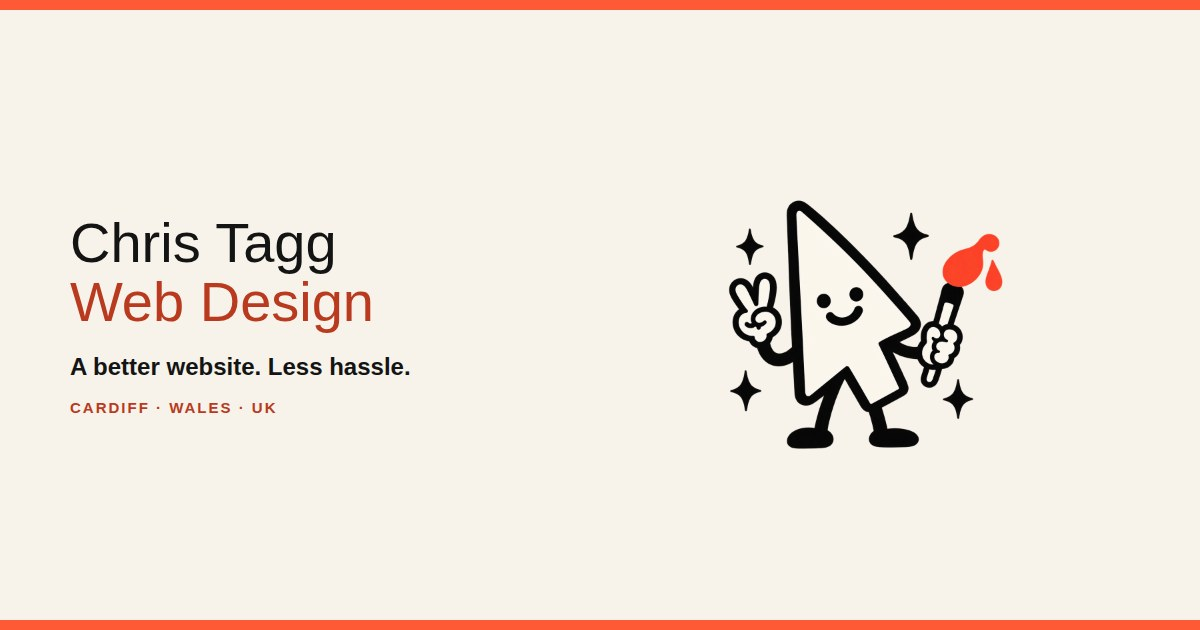
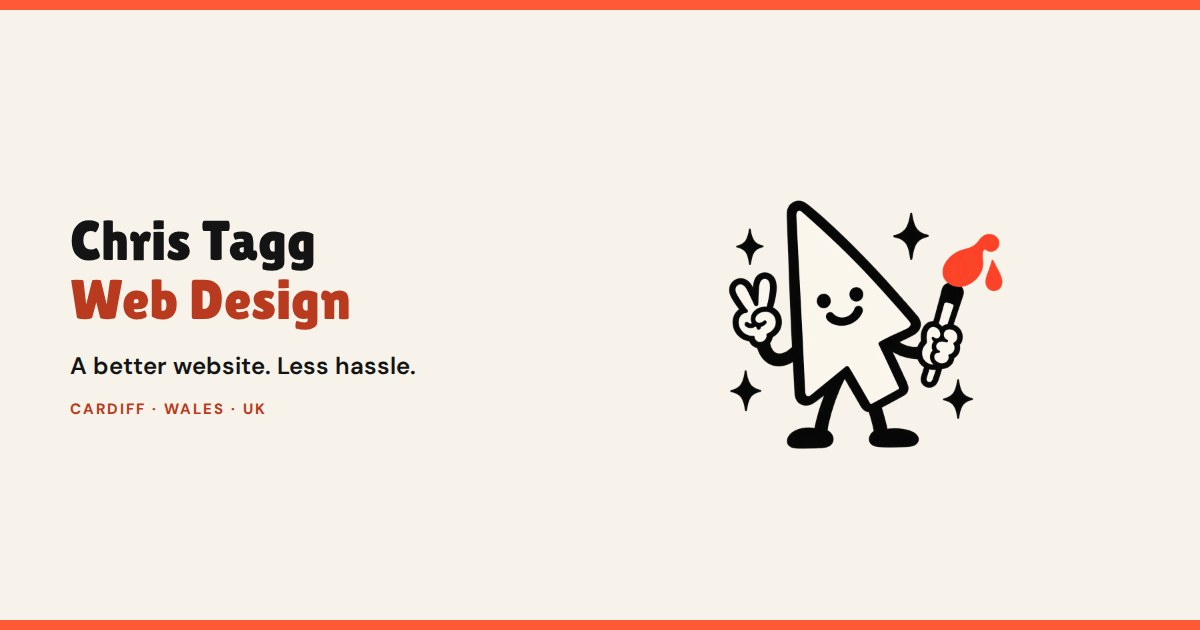
Fix silent font-loading failure: self-host Lilita One + DM Sans
The Google Fonts <link> was failing to load in testing
(net::ERR_CONNECTION_RESET), which meant every heading, the nav
logo, and the numerals were silently falling back to plain
sans-serif instead of Lilita One - the whole point of the rebrand
was invisible. Verified via document.fonts that both families now
report status:"loaded" with zero failed requests.

- Downloaded DM Sans (variable, wght 100-1000) and Lilita One (400)
  as woff2, self-hosted under assets/fonts/, replaced the external
  Google Fonts <link> with local @font-face rules
- Regenerated og-image.jpg with the font fix applied (logo.png is
  unaffected - it has no text, confirmed byte-identical)
- Self-hosting also removes a third-party network dependency the
  live site would otherwise carry on every load

Claude-Session: https://claude.ai/code/session_012WbS21mdmQm7hTnCGr2WGy

Changed region(s): [[0.0617, 0.3317, 0.3083, 0.5429], [0.0617, 0.573, 0.3392, 0.6032], [0.0617, 0.6333, 0.2467, 0.6635]]

diff --git a/index.html b/index.html
@@ -4,8 +4,24 @@
   <meta charset="UTF-8">
   <meta name="viewport" content="width=device-width, initial-scale=1.0">
   <title>Chris Tagg Web Design — A Better Website. Less Hassle. | Cardiff, Wales</title>
-  <link href="https://fonts.googleapis.com/css2?family=Lilita+One&family=DM+Sans:wght@400;500;600;700&display=swap" rel="stylesheet">
   <style>
+    @font-face {
+      font-family: 'DM Sans';
+      font-style: normal;
+      font-weight: 100 1000;
+      font-display: swap;
+      src: url('assets/fonts/dm-sans.woff2') format('woff2-variations'),
+           url('assets/fonts/dm-sans.woff2') format('woff2');
+    }
+
+    @font-face {
+      font-family: 'Lilita One';
+      font-style: normal;
+      font-weight: 400;
+      font-display: swap;
+      src: url('assets/fonts/lilita-one.woff2') format('woff2');
+    }
+
     * {
       margin: 0;
       padding: 0;
